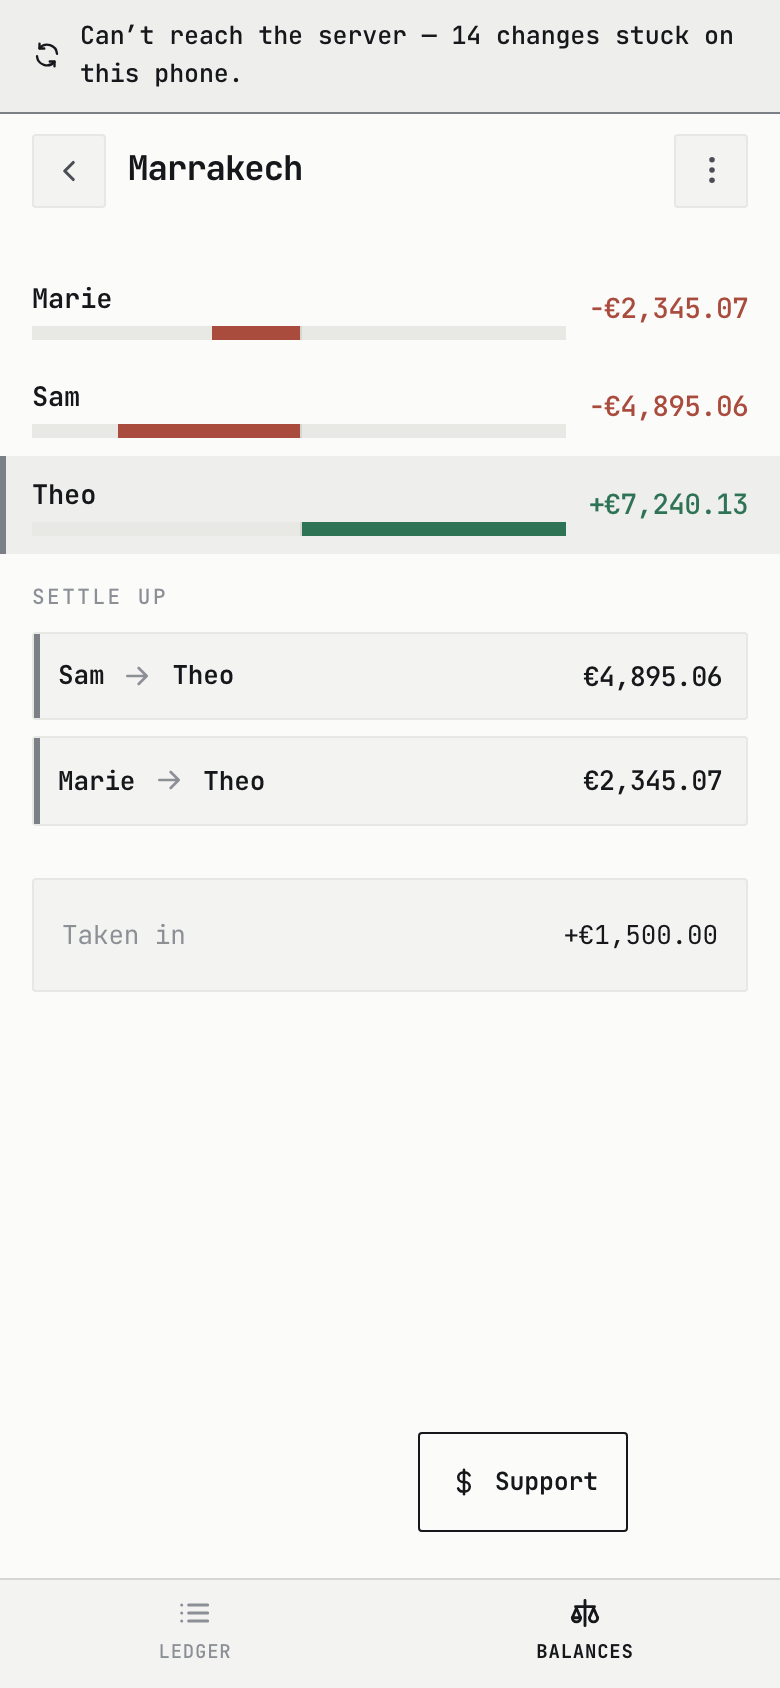
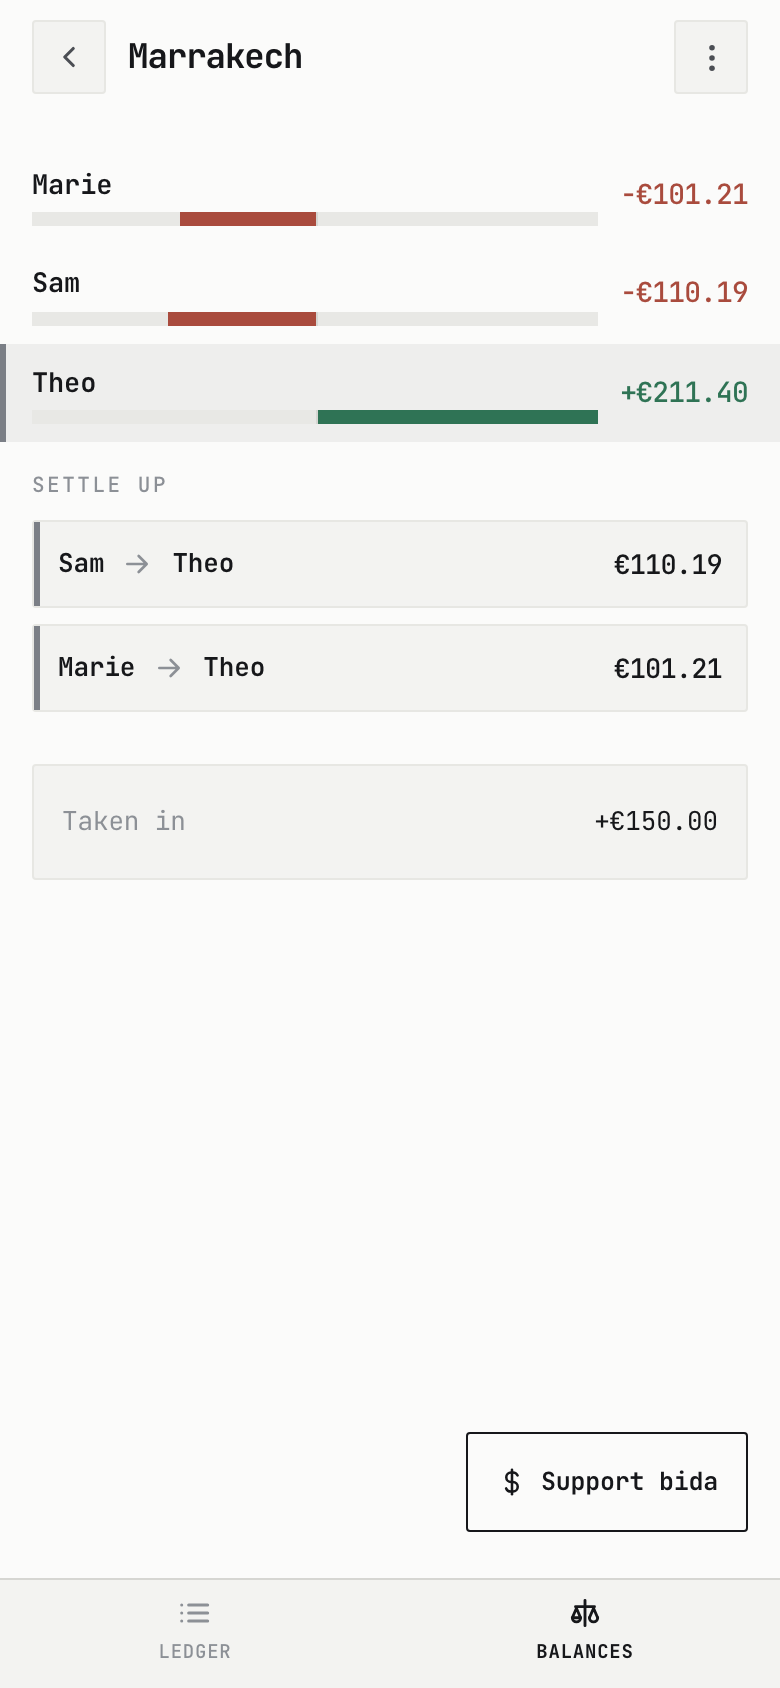
docs: a second shots script, for the four pictures in the README
The README was showing `pnpm shots` output, which is photographed for us,
not for a stranger: it leans on the states worth catching. So the four
pictures carried a split that didn't add up, a "Support" button renamed
two commits ago, a scan disclosure reworded one commit before that, and
"Can't reach the server" across the top of both ledger shots — the static
export has no API behind it, so every push 404s.

readme-shots serves the real Worker instead, waits for the push queue to
drain, and seeds a trip in prices a person might actually pay. Output
goes to docs/media/, because shots/ is gitignored and a README cannot
point at it.

diff --git a/docs/testing.md b/docs/testing.md
@@ -3,17 +3,18 @@
 *For: anyone touching `packages/core`, or reviewing a screen without a phone.*
 
 ```bash
-pnpm check       # links · rules · typecheck · tests · export build — pre-push, ~45s
-pnpm verify      # every browser check against a real build, ~60s
-pnpm entries     # just the three kinds of entry, end to end
-pnpm claim       # a name still being typed, and the button that acts on it
-pnpm keyboard    # the act a list of names is typed for, against an open keyboard
-pnpm offline     # just every screen with the network cut
-pnpm stall       # what a screen does when reading this phone's database stops working
-pnpm shots       # PNGs into shots/ (gitignored)
-pnpm drive       # drive the app as text, one command at a time — see below
-pnpm run docs    # every relative link resolves, every ADR is indexed, ~30ms
-pnpm run rules   # core is still pure, no browser dialogs crept back, ~30ms
+pnpm check        # links · rules · typecheck · tests · export build — pre-push, ~45s
+pnpm verify       # every browser check against a real build, ~60s
+pnpm entries      # just the three kinds of entry, end to end
+pnpm claim        # a name still being typed, and the button that acts on it
+pnpm keyboard     # the act a list of names is typed for, against an open keyboard
+pnpm offline      # just every screen with the network cut
+pnpm stall        # what a screen does when reading this phone's database stops working
+pnpm shots        # PNGs into shots/ (gitignored)
+pnpm readme-shots # the four pictures in README.md, into docs/media/ (committed)
+pnpm drive        # drive the app as text, one command at a time — see below
+pnpm run docs     # every relative link resolves, every ADR is indexed, ~30ms
+pnpm run rules    # core is still pure, no browser dialogs crept back, ~30ms
 ```
 
 **The browser checks build for themselves.** `ensureBuild()` compares `apps/web`
@@ -157,6 +158,26 @@ instruction, [standing-instructions](standing-instructions.md#workflow).
 
 Chromium is at `/opt/pw-browsers/chromium` (override with `CHROMIUM_PATH`);
 `playwright-core` is a root devDependency. Never run `playwright install`.
+
+## `pnpm readme-shots` — the four pictures in the README
+
+`scripts/readme-shots.mjs` walks the same UI with the opposite brief. `shots`
+leans on states worth catching — a split that doesn't add up, a payer who
+overpaid, a server that can't be reached; a stranger deciding whether to open
+the app should see none of those, so this one seeds a trip that adds up in
+prices a person might actually pay, and photographs the ledger, balances, a
+split that balances, and the scan screen.
+
+Two differences that are the whole reason it is a second script:
+
+- **It serves the real Worker** (`serveWorker`), not the export. Against a
+  static server every push 404s and the ledger wears "Can't reach the server",
+  which is the first thing a reader would see. That costs ~10s of `wrangler
+  dev` boot, and `settled()` waits for the banner to be gone rather than for a
+  timeout.
+- **Its output is committed.** `shots/` is gitignored, so a README cannot point
+  at it; `docs/media/` is not. Re-run and commit what moves when one of the
+  four screens changes.
 
 ### Gotchas
 

diff --git a/README.md b/README.md
@@ -18,9 +18,10 @@ This is a personal project, almost entirely vibe-coded with Claude Code.
 
 <table>
 <tr>
-<td width="33%"><img src="docs/media/ledger.png" alt=""></td>
-<td width="33%"><img src="docs/media/balances.png" alt=""></td>
-<td width="33%"><img src="docs/media/split.png" alt=""></td>
+<td width="25%"><img src="docs/media/ledger.png" alt=""></td>
+<td width="25%"><img src="docs/media/balances.png" alt=""></td>
+<td width="25%"><img src="docs/media/split.png" alt=""></td>
+<td width="25%"><img src="docs/media/scan.png" alt=""></td>
 </tr>
 </table>
 
